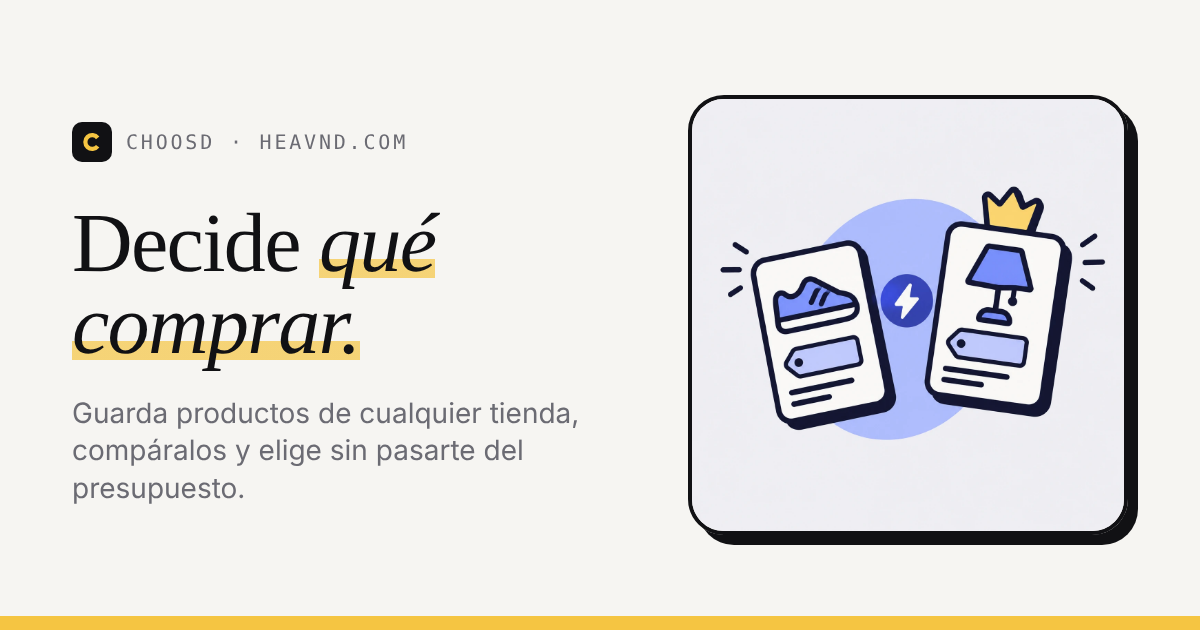
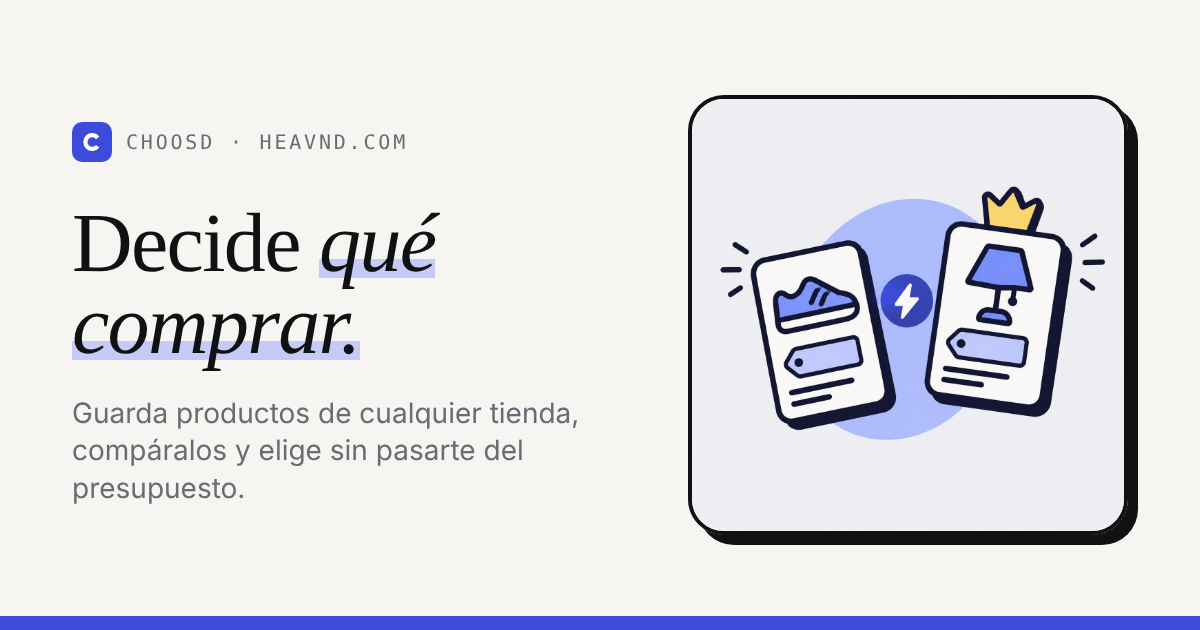
Colores de Choosd y Togethrd como en sus apps y mocks de Togethrd nuevos
- Acentos: Choosd en cobalto y Togethrd en granate, con su color para lo
  que va encima (on-choosd, on-togethrd) y su versión clara en oscuro,
  los mismos que usan las apps.
- Iconos con los colores de cada favicon (apps.ts → icon): la C blanca
  sobre cobalto, la T rosa sobre ciruela; Meald y Heavnd no cambian.
- Togethrd sin billete: Descubrir con el bloque de amigos y "Me lo
  guardo", y un plan de Sorpréndeme con la ruta de puntos, que es la
  firma de la app tras el rediseño. Fuera la ficha de viaje.
- Imágenes Open Graph de Choosd y Togethrd con el icono real, el acento
  en la barra y un subrayado claro que deja leer el título.
- es/en/ca.

Claude-Session: https://claude.ai/code/session_01EgbpYnYcoY22dC5ewnQf7m

diff --git a/frontend/app/components/MockTogethrd.vue b/frontend/app/components/MockTogethrd.vue
@@ -1,31 +1,29 @@
 <template>
-  <!-- Miniatura decorativa de las ideas guardadas en Togethrd. -->
+  <!-- Miniatura decorativa de Descubrir en Togethrd: lo tuyo arriba y lo de tus amigos en el bloque granate. -->
   <div class="card w-full p-4" aria-hidden="true">
-    <div class="flex items-center justify-between">
-      <div class="flex items-center gap-2 text-sm font-semibold">
-        <AppIcon :glyph="APPS[2]!.glyph" fill-class="text-togethrd" size-class="size-6" />
-        {{ t('mock.togethrdIdeas') }}
-      </div>
-      <span class="rounded-full bg-ink/5 px-2 py-0.5 text-[11px] font-medium text-muted">{{ t('mock.togethrdPending') }}</span>
+    <div class="flex items-center gap-2">
+      <AppIcon :glyph="APPS[2]!.glyph" :fill-class="APPS[2]!.icon.fill" :bg="APPS[2]!.icon.bg" size-class="size-6" />
+      <p class="text-base font-semibold leading-tight">{{ t('mock.togethrdGreeting') }} <span class="text-togethrd">{{ t('mock.togethrdGreetingWhen') }}</span>?</p>
     </div>
-    <ul class="mt-3 space-y-2">
-      <li v-for="idea in ideas" :key="idea.key" class="flex items-center gap-3 rounded-xl bg-ink/[0.03] p-2">
-        <span class="grid size-10 shrink-0 place-items-center rounded-lg text-base" :class="idea.tint"><FontAwesomeIcon :icon="idea.glyph" class="text-ink/60" /></span>
+    <div class="mt-3 rounded-xl bg-ink/[0.03] p-2.5">
+      <p class="text-[10px] font-medium text-muted">{{ t('mock.togethrdNext') }} · {{ t('mock.togethrdNextWhen') }}</p>
+      <p class="mt-0.5 truncate text-xs font-semibold">{{ t('mock.togethrdNextTitle') }}</p>
+      <MockRoute :count="3" class="mt-2" />
+    </div>
+    <div class="mt-3 rounded-xl bg-togethrd p-2.5 text-on-togethrd">
+      <p class="text-[11px] font-semibold">{{ t('mock.togethrdFriends') }}</p>
+      <div class="mt-2 flex items-center gap-2.5 rounded-lg bg-surface p-2 text-ink">
+        <span class="grid size-10 shrink-0 place-items-center rounded-md bg-togethrd/15"><FontAwesomeIcon :icon="faWineGlass" class="text-togethrd" /></span>
         <span class="min-w-0 flex-1">
-          <span class="block text-[10px] font-medium uppercase tracking-wide text-muted">{{ t(`mock.togethrdItems.${idea.key}.kind`) }}</span>
-          <span class="block truncate text-xs font-semibold">{{ t(`mock.togethrdItems.${idea.key}.title`) }}</span>
+          <span class="block truncate text-xs font-semibold">{{ t('mock.togethrdExperience') }}</span>
+          <span class="block truncate text-[10px] text-muted">{{ t('mock.togethrdExperienceMeta') }}</span>
         </span>
-        <span class="text-right text-[11px] text-muted">{{ idea.price == null ? t(`mock.togethrdItems.${idea.key}.when`) : money(idea.price) }}</span>
-      </li>
-    </ul>
+        <span class="shrink-0 rounded-full bg-togethrd px-2 py-1 text-[10px] font-semibold text-on-togethrd"><FontAwesomeIcon :icon="faBookmark" /> {{ t('mock.togethrdSave') }}</span>
+      </div>
+    </div>
   </div>
 </template>
 
 <script setup lang="ts">
-import { faBowlFood, faFilm, faMusic } from '@fortawesome/free-solid-svg-icons'
-const ideas = [
-  { key: 'ramen', glyph: faBowlFood, tint: 'bg-togethrd/20', price: 18 },
-  { key: 'concert', glyph: faMusic, tint: 'bg-ink/5', price: null },
-  { key: 'movie', glyph: faFilm, tint: 'bg-ink/5', price: null },
-]
+import { faBookmark, faWineGlass } from '@fortawesome/free-solid-svg-icons'
 </script>

diff --git a/frontend/app/components/MockTogethrdPlan.vue b/frontend/app/components/MockTogethrdPlan.vue
@@ -1,0 +1,33 @@
+<template>
+  <!-- Miniatura decorativa de un plan de Sorpréndeme: paradas en orden, unidas por la ruta. -->
+  <div class="card w-full p-4" aria-hidden="true">
+    <div class="flex items-center justify-between gap-2">
+      <p class="text-sm font-semibold"><FontAwesomeIcon :icon="faWandMagicSparkles" class="mr-1 text-togethrd" /> {{ t('mock.togethrdPlan') }}</p>
+      <span class="rounded-full bg-togethrd/15 px-2 py-0.5 text-[11px] font-medium text-togethrd">{{ t('mock.togethrdPlanWhen') }}</span>
+    </div>
+    <ol class="mt-3">
+      <li v-for="(stop, i) in stops" :key="stop.key" class="relative flex gap-3 pb-3 last:pb-0">
+        <span v-if="i < stops.length - 1" class="absolute top-5 bottom-0 left-[9px] border-l-2 border-dotted border-togethrd" />
+        <span class="z-10 grid size-5 shrink-0 place-items-center rounded-full bg-togethrd text-[10px] font-bold text-on-togethrd">{{ i + 1 }}</span>
+        <span class="min-w-0 flex-1">
+          <span class="block text-[10px] text-muted">{{ t(`mock.togethrdStops.${stop.key}.kind`) }}</span>
+          <span class="block truncate text-xs font-semibold">{{ t(`mock.togethrdStops.${stop.key}.title`) }}</span>
+        </span>
+        <span class="shrink-0 text-[11px] text-muted">{{ stop.time }}</span>
+      </li>
+    </ol>
+    <div class="mt-3 flex items-center justify-between border-t border-ink/10 pt-2.5 text-[11px]">
+      <span class="text-muted">{{ t('mock.togethrdPlanBudget', { price: money(32) }) }}</span>
+      <span class="font-semibold text-togethrd"><FontAwesomeIcon :icon="faRoute" /> {{ t('mock.togethrdRoute') }}</span>
+    </div>
+  </div>
+</template>
+
+<script setup lang="ts">
+import { faRoute, faWandMagicSparkles } from '@fortawesome/free-solid-svg-icons'
+const stops = [
+  { key: 'museum', time: '11:00' },
+  { key: 'ramen', time: '14:00' },
+  { key: 'concert', time: '21:00' },
+]
+</script>

diff --git a/frontend/app/utils/apps.ts b/frontend/app/utils/apps.ts
@@ -10,6 +10,8 @@ export interface HeavndApp {
   /** Clases del color de acento (token de main.css), ya resueltas para que Tailwind las detecte. */
   accent: { bg: string, text: string, tint: string, border: string }
   glyph: string
+  /** Fondo y color de la inicial del icono, fijos: los del favicon de la app. */
+  icon: { bg: string, fill: string }
   steps: string[]
   facts: string[]
   roadmap: { next: string[], exploring: string[] }
@@ -39,6 +41,7 @@ export const APPS: HeavndApp[] = [
     url: 'https://choosd.heavnd.com',
     accent: { bg: 'bg-choosd', text: 'text-choosd', tint: 'bg-choosd/15', border: 'border-choosd' },
     glyph: 'M21.9 11.6A7.2 7.2 0 1 0 21.9 20.4L19.2 18.3A3.8 3.8 0 1 1 19.2 13.7Z',
+    icon: { bg: '#3d4bdb', fill: 'text-[#ffffff]' },
     steps: ['save', 'organize', 'tournament', 'budget'],
     facts: ['ways', 'states', 'champion'],
     roadmap: { next: ['priceWatch'], exploring: ['priceHistory', 'ai'] },
@@ -61,6 +64,7 @@ export const APPS: HeavndApp[] = [
     url: 'https://meald.heavnd.com',
     accent: { bg: 'bg-meald', text: 'text-meald', tint: 'bg-meald/15', border: 'border-meald' },
     glyph: 'M8 23V9h3.2l4.8 7 4.8-7H24v14h-3.3v-8.6L16.9 20h-1.8l-3.8-5.6V23z',
+    icon: { bg: '#111114', fill: 'text-meald' },
     steps: ['recipes', 'products', 'week', 'shopping'],
     facts: ['leftovers', 'perKg', 'prep'],
     roadmap: { next: ['prices'], exploring: ['quality', 'ai'] },
@@ -84,6 +88,7 @@ export const APPS: HeavndApp[] = [
     url: 'https://togethrd.heavnd.com',
     accent: { bg: 'bg-togethrd', text: 'text-togethrd', tint: 'bg-togethrd/15', border: 'border-togethrd' },
     glyph: 'M8.5 9h15v3.4h-5.8V23h-3.4V12.4H8.5z',
+    icon: { bg: '#2a1d24', fill: 'text-[#f6c9d3]' },
     steps: ['save', 'types', 'plan', 'done'],
     facts: ['types', 'link', 'photos'],
     roadmap: { next: ['push'], exploring: ['weather'] },

diff --git a/frontend/app/locales/ca.ts b/frontend/app/locales/ca.ts
@@ -317,22 +317,23 @@ const ca: Messages = {
       basil: 'Alfàbrega fresca',
     },
     shoppingTotal: 'Total',
-    togethrdIdeas: 'Idees',
-    togethrdPending: 'Pendent',
-    togethrdItems: {
-      ramen: { kind: 'Restaurant · Ramen', title: 'Ramen Kagura', when: '' },
-      concert: { kind: 'Activitat · Espectacle', title: 'Concert a la platja', when: 'Ds 21:00' },
-      movie: { kind: 'Pla a casa · Pel·li', title: 'Marató de Ghibli', when: 'Divendres' },
-    },
-    togethrdTripKind: 'Viatge · Ciutat',
-    togethrdTrip: 'Japó a la primavera',
-    togethrdTripDates: '1 – 15 abr',
-    togethrdFlight: 'Madrid → Tòquio',
-    togethrdFlightInfo: 'JAL · 2 trams · localitzador K7Q2LM',
-    togethrdDestination: 'A la destinació',
-    togethrdPlaces: {
-      ghibli: 'Museu Ghibli',
-      ichiran: 'Ichiran Shibuya',
+    togethrdGreeting: 'Què fem',
+    togethrdGreetingWhen: 'aquest cap de setmana',
+    togethrdNext: 'El teu proper pla',
+    togethrdNextWhen: 'dissabte',
+    togethrdNextTitle: 'Mercat, museu i sopar',
+    togethrdFriends: 'Dels teus amics',
+    togethrdExperience: 'Ruta de vermut',
+    togethrdExperienceMeta: 'Laura · 3 parades',
+    togethrdSave: 'Me’l deso',
+    togethrdPlan: 'Sorprèn-me',
+    togethrdPlanWhen: 'Dissabte',
+    togethrdPlanBudget: '{price} per persona',
+    togethrdRoute: 'Ruta',
+    togethrdStops: {
+      museum: { kind: 'Activitat · Museu', title: 'Museu de Belles Arts' },
+      ramen: { kind: 'Restaurant · Ramen', title: 'Ramen Kagura' },
+      concert: { kind: 'Activitat · Espectacle', title: 'Concert a la platja' },
     },
   },
   manifesto: {

diff --git a/frontend/app/locales/es.ts b/frontend/app/locales/es.ts
@@ -319,22 +319,23 @@ const es = {
       basil: 'Albahaca fresca',
     },
     shoppingTotal: 'Total',
-    togethrdIdeas: 'Ideas',
-    togethrdPending: 'Pendiente',
-    togethrdItems: {
-      ramen: { kind: 'Restaurante · Ramen', title: 'Ramen Kagura', when: '' },
-      concert: { kind: 'Actividad · Espectáculo', title: 'Concierto en la playa', when: 'Sáb 21:00' },
-      movie: { kind: 'Plan en casa · Peli', title: 'Maratón de Ghibli', when: 'Viernes' },
-    },
-    togethrdTripKind: 'Viaje · Ciudad',
-    togethrdTrip: 'Japón en primavera',
-    togethrdTripDates: '1 – 15 abr',
-    togethrdFlight: 'Madrid → Tokio',
-    togethrdFlightInfo: 'JAL · 2 tramos · localizador K7Q2LM',
-    togethrdDestination: 'En el destino',
-    togethrdPlaces: {
-      ghibli: 'Museo Ghibli',
-      ichiran: 'Ichiran Shibuya',
+    togethrdGreeting: '¿Qué hacemos',
+    togethrdGreetingWhen: 'este finde',
+    togethrdNext: 'Tu próximo plan',
+    togethrdNextWhen: 'sábado',
+    togethrdNextTitle: 'Mercado, museo y cena',
+    togethrdFriends: 'De tus amigos',
+    togethrdExperience: 'Ruta de vermut',
+    togethrdExperienceMeta: 'Laura · 3 paradas',
+    togethrdSave: 'Me lo guardo',
+    togethrdPlan: 'Sorpréndeme',
+    togethrdPlanWhen: 'Sábado',
+    togethrdPlanBudget: '{price} por persona',
+    togethrdRoute: 'Ruta',
+    togethrdStops: {
+      museum: { kind: 'Actividad · Museo', title: 'Museo de Bellas Artes' },
+      ramen: { kind: 'Restaurante · Ramen', title: 'Ramen Kagura' },
+      concert: { kind: 'Actividad · Espectáculo', title: 'Concierto en la playa' },
     },
   },
   manifesto: {

diff --git a/frontend/app/locales/en.ts b/frontend/app/locales/en.ts
@@ -317,22 +317,23 @@ const en: Messages = {
       basil: 'Fresh basil',
     },
     shoppingTotal: 'Total',
-    togethrdIdeas: 'Ideas',
-    togethrdPending: 'To do',
-    togethrdItems: {
-      ramen: { kind: 'Restaurant · Ramen', title: 'Ramen Kagura', when: '' },
-      concert: { kind: 'Activity · Show', title: 'Concert on the beach', when: 'Sat 21:00' },
-      movie: { kind: 'Night in · Movie', title: 'Ghibli marathon', when: 'Friday' },
-    },
-    togethrdTripKind: 'Trip · City',
-    togethrdTrip: 'Japan in spring',
-    togethrdTripDates: '1 – 15 Apr',
-    togethrdFlight: 'Madrid → Tokyo',
-    togethrdFlightInfo: 'JAL · 2 legs · booking ref K7Q2LM',
-    togethrdDestination: 'At the destination',
-    togethrdPlaces: {
-      ghibli: 'Ghibli Museum',
-      ichiran: 'Ichiran Shibuya',
+    togethrdGreeting: 'What shall we do',
+    togethrdGreetingWhen: 'this weekend',
+    togethrdNext: 'Your next plan',
+    togethrdNextWhen: 'Saturday',
+    togethrdNextTitle: 'Market, museum and dinner',
+    togethrdFriends: 'From your friends',
+    togethrdExperience: 'Vermouth crawl',
+    togethrdExperienceMeta: 'Laura · 3 stops',
+    togethrdSave: 'Save it',
+    togethrdPlan: 'Surprise me',
+    togethrdPlanWhen: 'Saturday',
+    togethrdPlanBudget: '{price} per person',
+    togethrdRoute: 'Route',
+    togethrdStops: {
+      museum: { kind: 'Activity · Museum', title: 'Fine Arts Museum' },
+      ramen: { kind: 'Restaurant · Ramen', title: 'Ramen Kagura' },
+      concert: { kind: 'Activity · Show', title: 'Concert on the beach' },
     },
   },
   manifesto: {

diff --git a/frontend/app/components/ProductPage.vue b/frontend/app/components/ProductPage.vue
@@ -10,7 +10,7 @@
       <div class="grid gap-12 pb-20 pt-12 sm:pt-16 lg:grid-cols-12 lg:gap-14">
         <div class="lg:col-span-7">
           <div class="flex items-center gap-4">
-            <AppIcon :glyph="app.glyph" :fill-class="app.accent.text" size-class="size-14 sm:size-16" />
+            <AppIcon :glyph="app.glyph" :fill-class="app.icon.fill" :bg="app.icon.bg" size-class="size-14 sm:size-16" />
             <h1 class="display text-6xl sm:text-8xl">{{ app.name }}</h1>
           </div>
           <p class="display mt-5 text-3xl italic leading-tight text-balance sm:text-4xl">{{ t(`product.${app.id}.headline`) }}</p>
@@ -134,7 +134,7 @@
     <section class="mx-auto max-w-6xl px-4 pb-24 sm:px-6">
       <div class="flex flex-col items-start gap-6 rounded-3xl p-8 sm:flex-row sm:items-center sm:justify-between sm:p-12" :class="app.accent.tint">
         <div class="flex items-center gap-4">
-          <AppIcon :glyph="app.glyph" :fill-class="app.accent.text" size-class="size-12" />
+          <AppIcon :glyph="app.glyph" :fill-class="app.icon.fill" :bg="app.icon.bg" size-class="size-12" />
           <p class="display text-3xl italic leading-tight text-balance sm:text-4xl">{{ t(`apps.${app.id}.quote`) }}</p>
         </div>
         <a :href="app.page.signupUrl" class="btn-primary shrink-0 px-5 py-3 text-base">{{ t('product.start') }}</a>

diff --git a/frontend/app/assets/css/main.css b/frontend/app/assets/css/main.css
@@ -7,7 +7,8 @@
 
 /*
  * Tokens semánticos, los mismos que en las apps: nunca black/white directamente.
- * accent es el de la marca (lila "halo"); cada app conserva el suyo en choosd y meald.
+ * accent es el de la marca (lila "halo"); cada app conserva el suyo (choosd, meald, togethrd), el mismo que usa
+ * la app para actuar, con su on-* para lo que va encima y su versión clara en oscuro, como en cada app.
  * night/night-ink son el bloque invertido del manifiesto: no cambian con el tema.
  *
  * La landing añade dos familias al sistema de las apps: Fraunces para titulares (la voz editorial)
@@ -23,9 +24,11 @@
   --color-muted: #6b6b73;
   --color-accent: #b7a6ff;
   --color-on-accent: #111114;
-  --color-choosd: #f5c542;
+  --color-choosd: #3d4bdb;
+  --color-on-choosd: #ffffff;
   --color-meald: #9bd36b;
-  --color-togethrd: #e597a9;
+  --color-togethrd: #9b3a51;
+  --color-on-togethrd: #ffffff;
   --color-night: #111114;
   --color-night-ink: #ececef;
 }
@@ -36,6 +39,10 @@
   --color-surface: #1a1a1e;
   --color-muted: #9a9aa3;
   --color-night: #18181c;
+  --color-choosd: #6b78ff;
+  --color-on-choosd: #0d0d18;
+  --color-togethrd: #e08ea2;
+  --color-on-togethrd: #1a1214;
   color-scheme: dark;
 }
 

diff --git a/frontend/app/pages/index.vue b/frontend/app/pages/index.vue
@@ -51,7 +51,7 @@
           v-for="(app, i) in APPS" :key="app.id" :to="localePath(`/${app.id}`)"
           class="group relative flex items-center gap-5 overflow-hidden rounded-3xl p-6 transition sm:p-8" :class="app.accent.tint"
         >
-          <AppIcon :glyph="app.glyph" :fill-class="app.accent.text" size-class="size-14" />
+          <AppIcon :glyph="app.glyph" :fill-class="app.icon.fill" :bg="app.icon.bg" size-class="size-14" />
           <div class="min-w-0">
             <p class="meta">{{ t('apps.label', { n: String(i + 1).padStart(2, '0') }) }}</p>
             <p class="display mt-1 text-4xl">{{ app.name }}</p>
@@ -98,7 +98,7 @@
         <div class="mt-16 grid gap-6 md:grid-cols-2 lg:grid-cols-4">
           <div v-for="app in APPS" :key="app.id" class="reveal card p-6">
             <div class="flex items-center gap-3">
-              <AppIcon :glyph="app.glyph" :fill-class="app.accent.text" size-class="size-9" />
+              <AppIcon :glyph="app.glyph" :fill-class="app.icon.fill" :bg="app.icon.bg" size-class="size-9" />
               <p class="display text-2xl">{{ app.name }}</p>
             </div>
             <template v-for="stage in STAGES" :key="stage">

diff --git a/frontend/app/components/AppIcon.vue b/frontend/app/components/AppIcon.vue
@@ -1,12 +1,12 @@
 <template>
   <svg viewBox="0 0 32 32" :class="['shrink-0 rounded-[22%] dark:ring-1 dark:ring-ink/15', sizeClass]" aria-hidden="true">
-    <rect width="32" height="32" rx="8" fill="#111114" />
+    <rect width="32" height="32" rx="8" :fill="bg" />
     <path :d="glyph" :class="fillClass" fill="currentColor" />
   </svg>
 </template>
 
 <script setup lang="ts">
-// Cuadrado ink con la inicial en el acento: el mismo icono que cada app usa como favicon.
-// El fondo es #111114 fijo (no el token) para que en oscuro siga siendo el icono real de la app.
-withDefaults(defineProps<{ glyph: string, fillClass: string, sizeClass?: string }>(), { sizeClass: 'size-10' })
+// Cuadrado con la inicial: el mismo icono que cada app usa como favicon (apps.ts → icon).
+// Colores fijos (no tokens) para que en oscuro siga siendo el icono real de la app; por defecto, el de Heavnd.
+withDefaults(defineProps<{ glyph: string, fillClass: string, bg?: string, sizeClass?: string }>(), { bg: '#111114', sizeClass: 'size-10' })
 </script>

diff --git a/frontend/app/components/MockRoute.vue b/frontend/app/components/MockRoute.vue
@@ -1,0 +1,16 @@
+<template>
+  <!-- La firma de Togethrd: paradas numeradas unidas por una línea de puntos. -->
+  <span class="inline-flex items-center" aria-hidden="true">
+    <template v-for="n in count" :key="n">
+      <span v-if="n > 1" class="w-3 border-t-2 border-dotted" :class="inverse ? 'border-on-togethrd' : 'border-togethrd'" />
+      <span
+        class="grid size-4 shrink-0 place-items-center rounded-full text-[9px] font-bold"
+        :class="inverse ? 'bg-on-togethrd text-togethrd' : 'bg-togethrd text-on-togethrd'"
+      >{{ n }}</span>
+    </template>
+  </span>
+</template>
+
+<script setup lang="ts">
+withDefaults(defineProps<{ count: number, inverse?: boolean }>(), { inverse: false })
+</script>

diff --git a/frontend/app/components/MockChoosdSave.vue b/frontend/app/components/MockChoosdSave.vue
@@ -15,7 +15,7 @@
         <p class="truncate text-sm font-semibold">{{ t('mock.choosdA') }}</p>
         <p class="text-sm">{{ money(249) }} <span class="text-xs text-muted">· {{ t('mock.saveTarget') }} {{ money(220) }}</span></p>
         <div class="mt-1.5 flex gap-1.5 text-[10px] font-medium">
-          <span class="rounded-full bg-choosd px-2 py-0.5 text-on-accent"><FontAwesomeIcon :icon="faStar" /> {{ t('mock.saveState') }}</span>
+          <span class="rounded-full bg-choosd px-2 py-0.5 text-on-choosd"><FontAwesomeIcon :icon="faStar" /> {{ t('mock.saveState') }}</span>
           <span class="rounded-full bg-ink/5 px-2 py-0.5 text-muted">#{{ t('mock.saveTag') }}</span>
         </div>
       </div>
